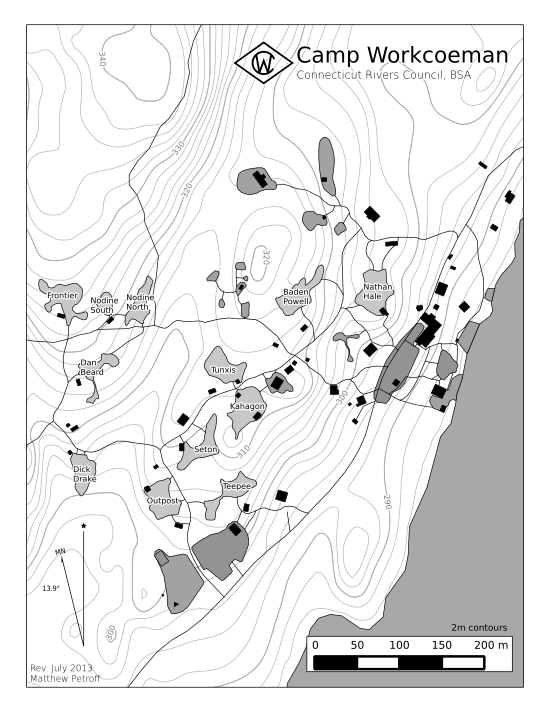
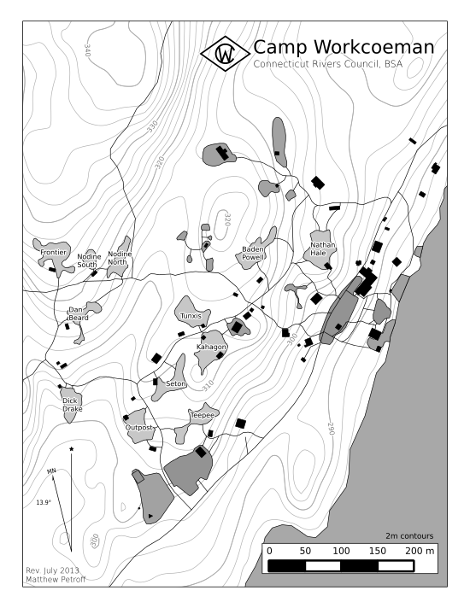
Changed map preview size.

diff --git a/about/map.md b/about/map.md
@@ -12,7 +12,7 @@ keywords: map, trail map
 
 ### Topographic Map
 
-[<img src="{{ site.url }}/about/files/camp-area-topo.png" alt="Camp Area" style="max-width: 550px; width: 100%;"/>]({{ site.url }}/pdf/2014/camp-map-metric_2013-07-03.pdf)
+[<img src="{{ site.url }}/about/files/camp-area-topo.png" alt="Camp Area" style="max-width: 470px; width: 100%;"/>]({{ site.url }}/pdf/2014/camp-map-metric_2013-07-03.pdf)
 
 ## Trail Map
 
